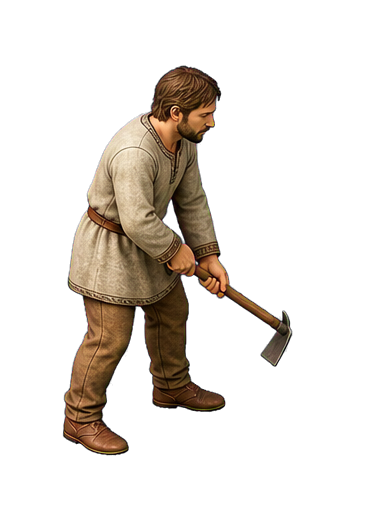
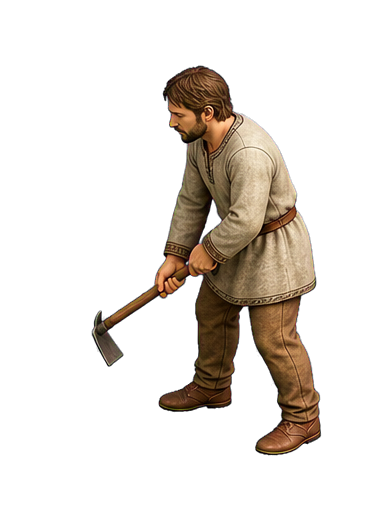
fix(art): face animal gatherers toward targets

diff --git a/tools/hd-art/build.ts b/tools/hd-art/build.ts
@@ -18,6 +18,7 @@ import { PALETTE } from '../assetgen/src/palette.ts';
 import { writePng } from '../assetgen/src/png.ts';
 import { Raster } from '../assetgen/src/raster.ts';
 import { alphaBounds, type AlphaBounds } from './alpha-bounds.ts';
+import { shouldMirrorDirectionSheetCell } from './direction-sheet-layout.ts';
 import { HD_DENSITY, MaterialLibrary, materializeFrame } from './materialize.ts';
 
 const ROOT = join(dirname(fileURLToPath(import.meta.url)), '../..');
@@ -61,6 +62,8 @@ interface CutoutSpec {
     kind: 'attack' | 'die' | 'stride' | 'gather';
     progress: number;
     direction: number;
+    /** Mirror rotation derived from a source cell that the slicer flips horizontally. */
+    sourceMirrored?: boolean;
   };
 }
 
@@ -448,7 +451,12 @@ const CUTOUT_SPECS: readonly CutoutSpec[] = [
       fitWidth: 0.92,
       fitHeight: 0.96,
       bottom: 0.97,
-      pose: { kind: 'gather', progress, direction: dir },
+      pose: {
+        kind: 'gather', progress, direction: dir,
+        sourceMirrored: shouldMirrorDirectionSheetCell(
+          'villager-gather-directions-cutout-v3.png', dir,
+        ),
+      },
     }))),
   ...([0, 1, 2, 3, 4] as const).map((dir): CutoutSpec => ({
     source: `art/hd/frames/units/villager-carry-dir-${dir}-cutout-v3.png`,
@@ -1090,7 +1098,8 @@ function transformCutoutPose(
     // Rock the approved worker/tool silhouette around grounded feet. The full
     // downstroke is intentionally pronounced at game scale, where a static
     // high-detail pose otherwise reads as an idle villager.
-    const swingSign = pose.direction <= 2 ? -1 : 1;
+    const authoredSwingSign = pose.direction <= 2 ? -1 : 1;
+    const swingSign = pose.sourceMirrored ? -authoredSwingSign : authoredSwingSign;
     angle = swingSign * pose.progress * 0.085;
     scaleX = 1 + pose.progress * 0.025;
     scaleY = 1 - pose.progress * 0.055;

diff --git a/tools/hd-art/slice-direction-sheet.ts b/tools/hd-art/slice-direction-sheet.ts
@@ -6,6 +6,7 @@ import { readFileSync, writeFileSync } from 'node:fs';
 import { join } from 'node:path';
 import { PNG } from 'pngjs';
 import { clearMinorAlphaComponents } from './alpha-components.ts';
+import { shouldMirrorDirectionSheetCell } from './direction-sheet-layout.ts';
 
 const root = join(import.meta.dirname, '../..');
 
@@ -62,9 +63,13 @@ for (const sheet of SHEETS) {
   for (let dir = 0; dir < CELLS.length; dir++) {
     const [cellX, cellY] = CELLS[dir];
     const out = new PNG({ width: cellWidth, height: cellHeight });
+    const mirrorForRuntime = shouldMirrorDirectionSheetCell(sheet.source, dir);
     for (let y = 0; y < cellHeight; y++) {
       for (let x = 0; x < cellWidth; x++) {
-        const sourceIndex = ((cellY * cellHeight + y) * source.width + cellX * cellWidth + x) * 4;
+        const sourceX = mirrorForRuntime ? cellWidth - 1 - x : x;
+        const sourceIndex = (
+          (cellY * cellHeight + y) * source.width + cellX * cellWidth + sourceX
+        ) * 4;
         const outputIndex = (y * cellWidth + x) * 4;
         out.data[outputIndex] = source.data[sourceIndex];
         out.data[outputIndex + 1] = source.data[sourceIndex + 1];

diff --git a/tools/hd-art/direction-sheet-layout.test.ts b/tools/hd-art/direction-sheet-layout.test.ts
@@ -1,0 +1,22 @@
+import { describe, expect, it } from 'vitest';
+import { shouldMirrorDirectionSheetCell } from './direction-sheet-layout';
+
+describe('4x2 direction-sheet extraction', () => {
+  it('corrects the eastward SW and W cells in the generic gather master', () => {
+    expect([0, 1, 2, 3, 4].map((direction) =>
+      shouldMirrorDirectionSheetCell('villager-gather-directions-cutout-v3.png', direction)))
+      .toEqual([false, true, true, false, false]);
+  });
+
+  it('keeps direction masters that already follow the runtime convention unchanged', () => {
+    for (const source of [
+      'villager-directions-cutout-v2.png',
+      'villager-carry-directions-cutout-v3.png',
+      'sheep-directions-cutout-v3.png',
+    ]) {
+      expect([0, 1, 2, 3, 4].map((direction) =>
+        shouldMirrorDirectionSheetCell(source, direction)))
+        .toEqual([false, false, false, false, false]);
+    }
+  });
+});

diff --git a/tools/hd-art/direction-sheet-layout.ts b/tools/hd-art/direction-sheet-layout.ts
@@ -1,0 +1,11 @@
+/**
+ * Corrective horizontal flips for authored 4x2 direction masters.
+ *
+ * Most masters already use the runtime S/SW/W/NW/N convention in the five cells
+ * selected by slice-direction-sheet.ts. The generic villager gather master is an
+ * exception: its SW and W cells were rendered as their eastward counterparts.
+ */
+export function shouldMirrorDirectionSheetCell(source: string, direction: number): boolean {
+  return source === 'villager-gather-directions-cutout-v3.png'
+    && (direction === 1 || direction === 2);
+}
